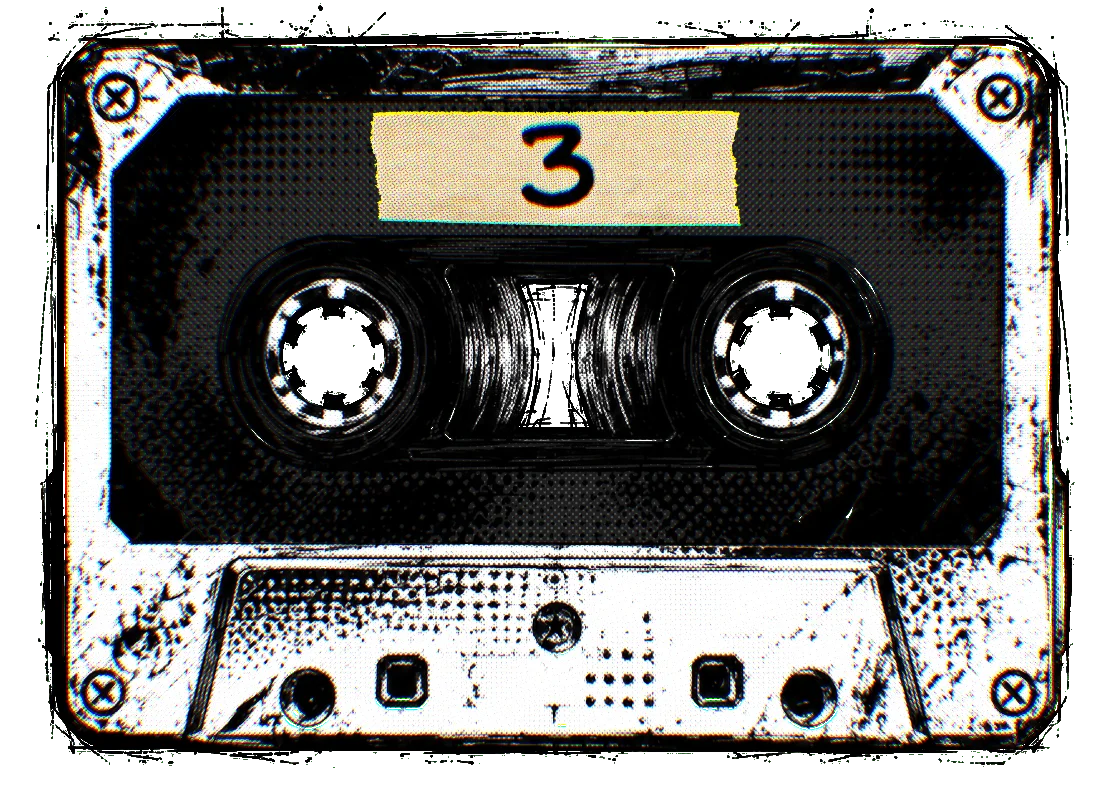
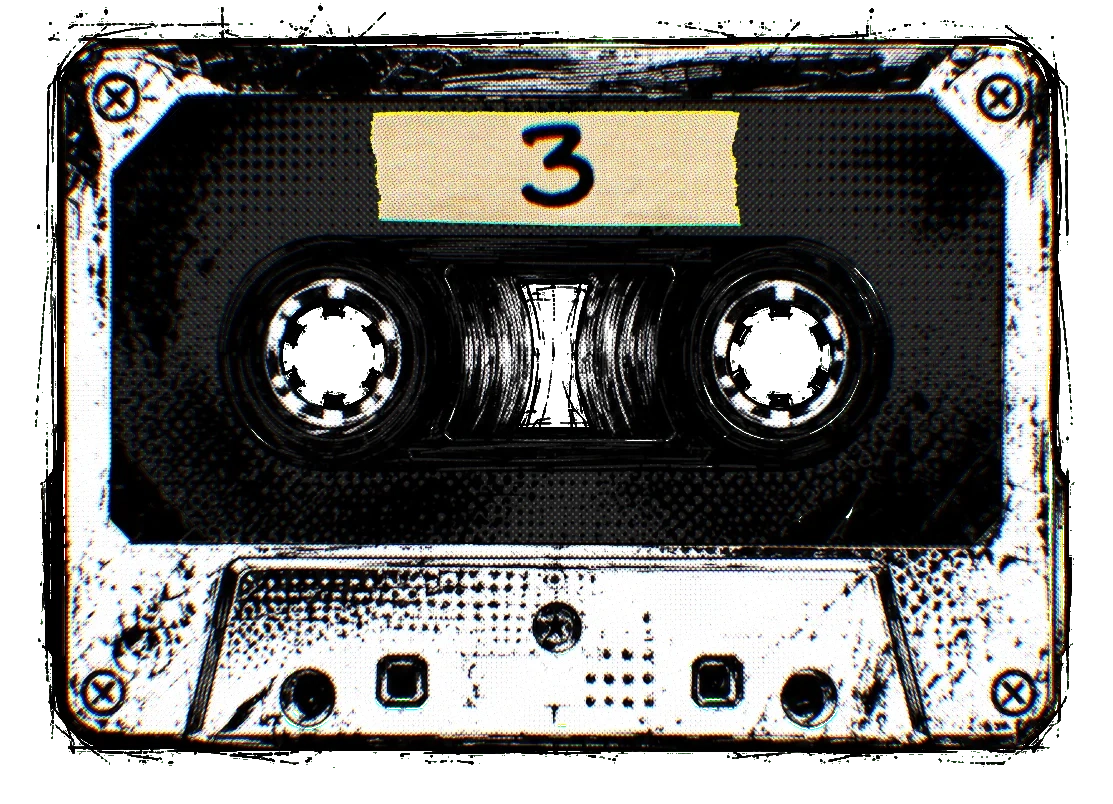
Titles fix 4

Changed region(s): [[0.9164, 0.8396, 0.947, 0.8706], [0.4888, 0.0933, 0.5193, 0.1244]]

diff --git a/game3-dash/src/game/TapeCatalog.ts b/game3-dash/src/game/TapeCatalog.ts
@@ -1,4 +1,6 @@
 /** Menu cassette art under `public/assets/tapes/`. */
+export const TAPE_CASSETTE_LOCKED_IMAGE_URL = '/assets/tapes/locked.webp';
+
 export type TapeCassetteEntry = {
   id: string;
   imageUrl: string;